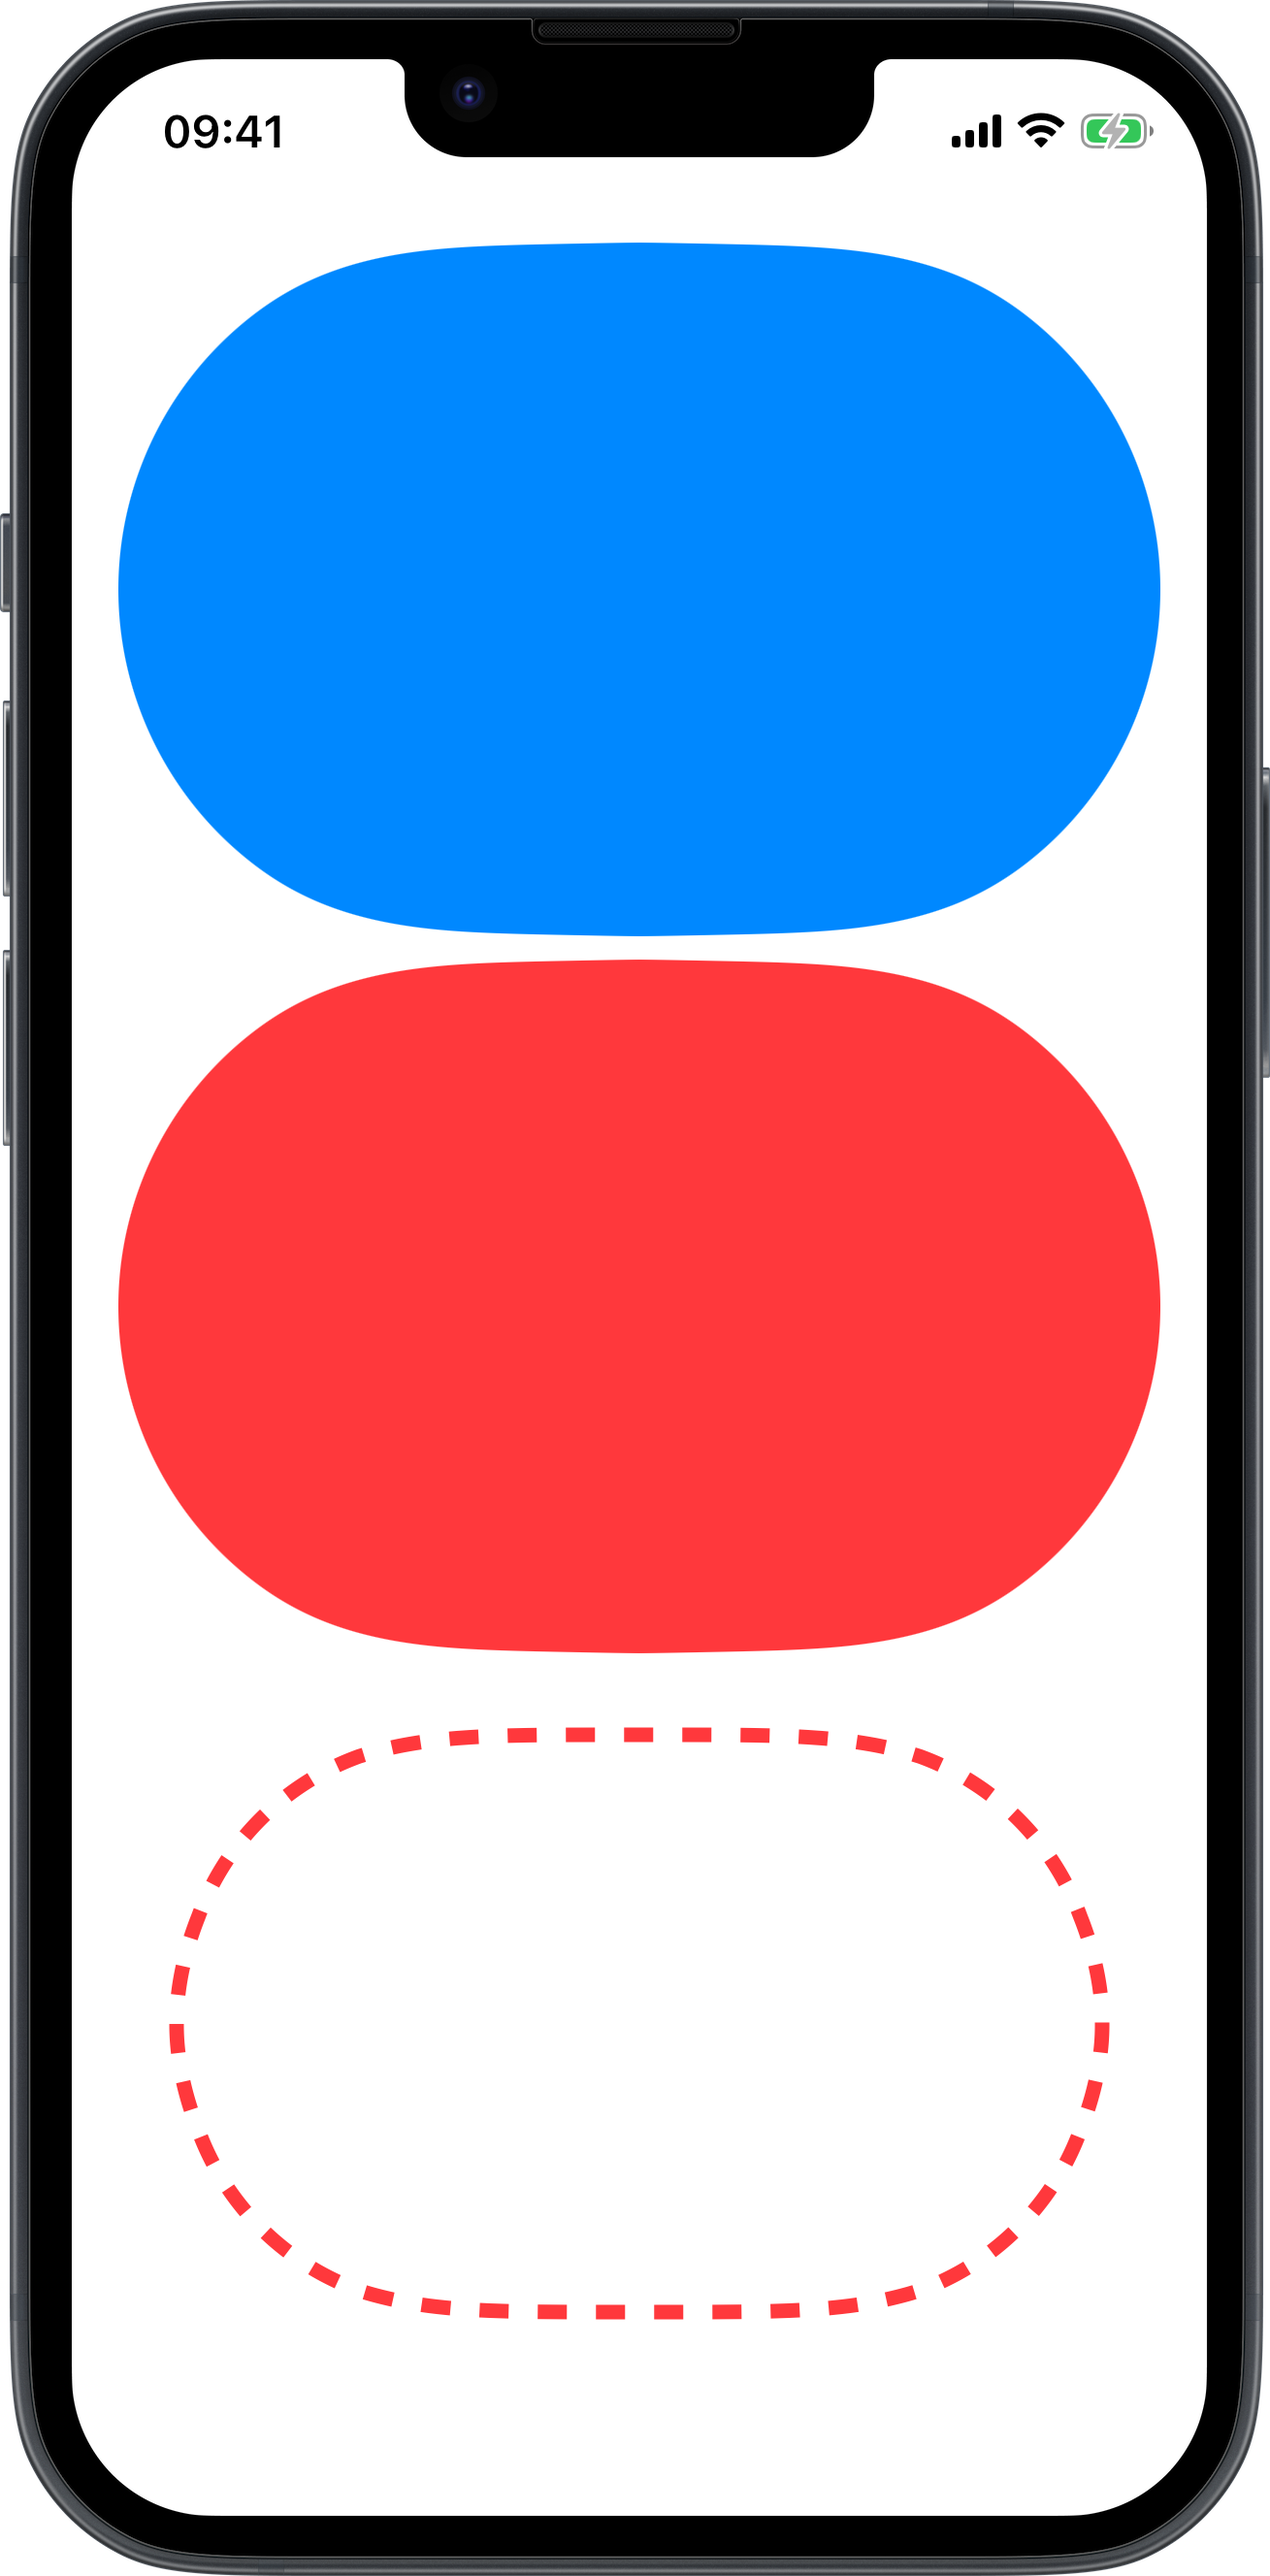
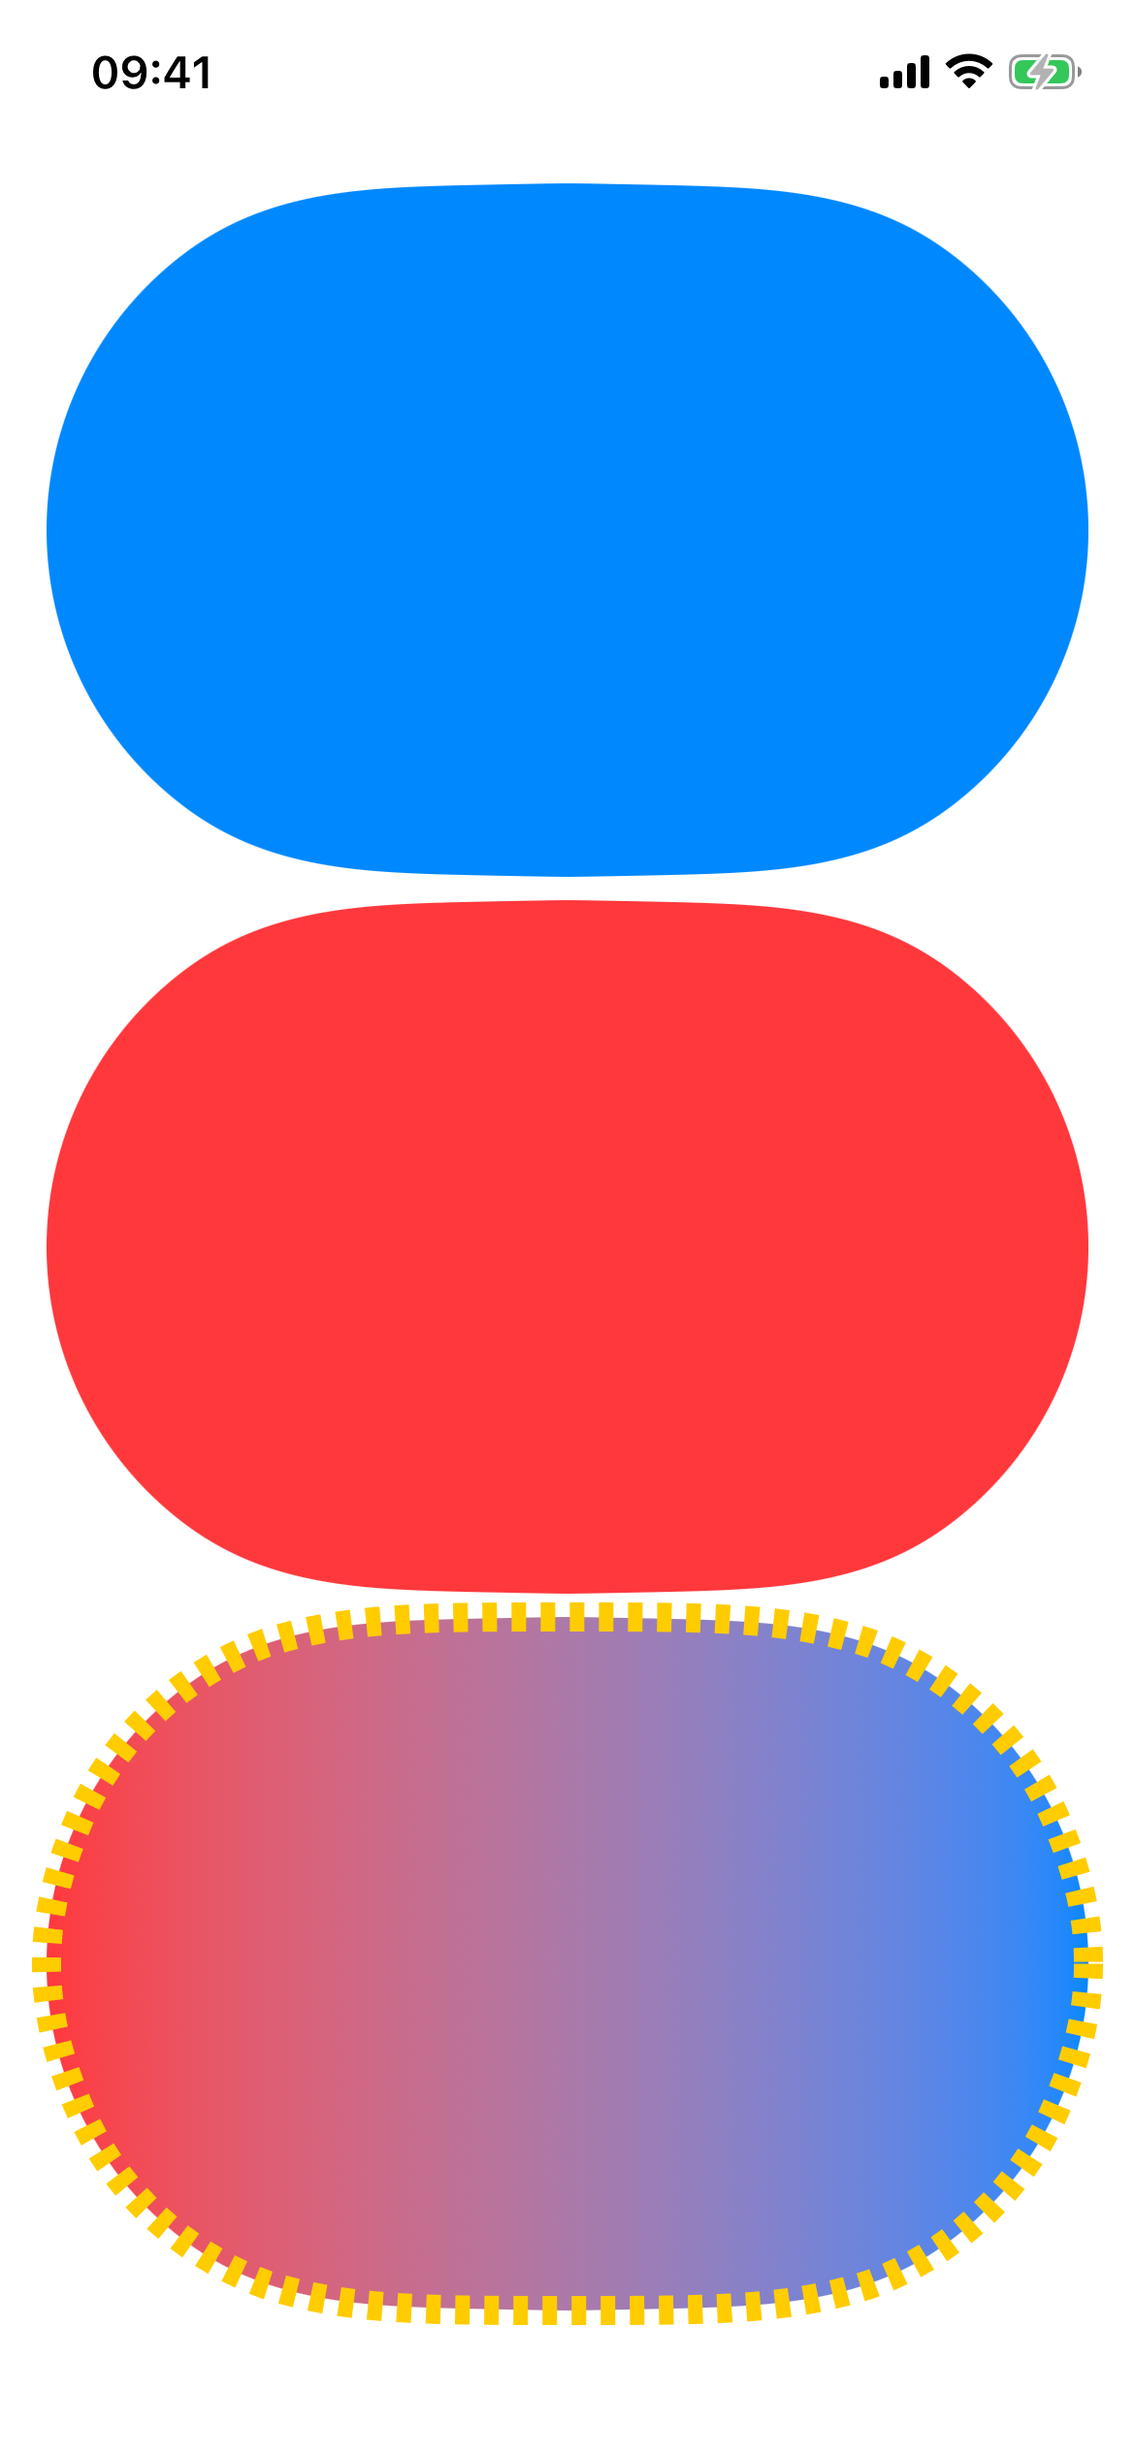
capsule

diff --git a/Views/Other/capsule.md b/Views/Other/capsule.md
@@ -15,7 +15,10 @@ A capsule shape aligned inside the frame of the view containing it.
     <vstack padding="">
         <capsule foregroundColor="blue"/>
         <capsule foregroundColor="red"/>
-        <capsule stroke="lineWidth:5;dash:10" foregroundColor="red"/>
+        <zstack>
+            <capsule foregroundStyle="style:lineargradient;colors:[red,blue];startPoint:0.0,0.5;endPoint:1.0,0.5"/>
+            <capsule stroke="lineWidth:10; dash:5" foregroundColor="yellow"/>
+        </zstack>
     </vstack>
 </body>
 ```
